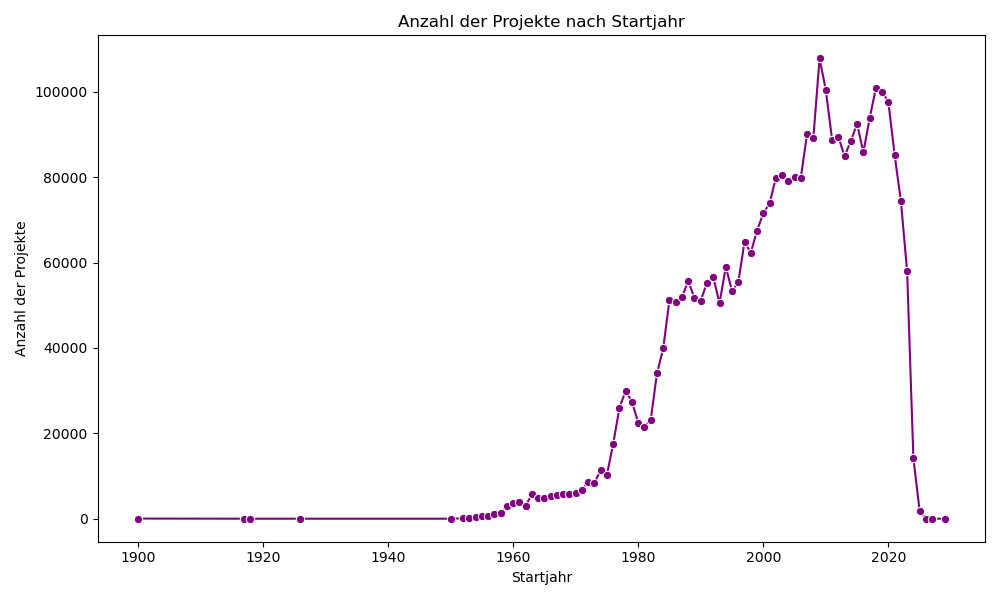
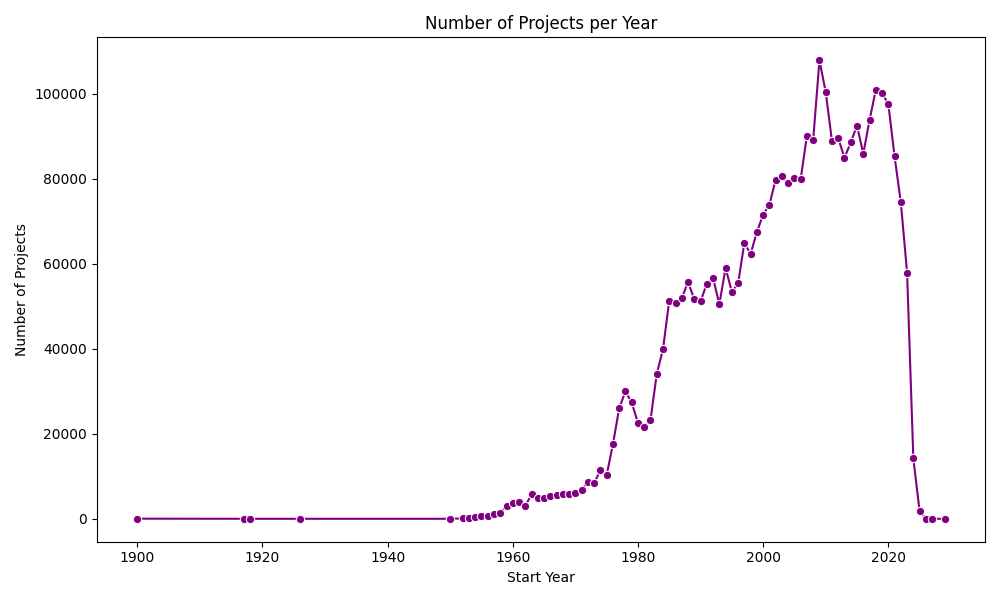
Add project dashboard and visualizations

diff --git a/src/dashboard.py b/src/dashboard.py
@@ -4,101 +4,158 @@ import seaborn as sns
 import matplotlib.pyplot as plt
 import os
 
-# Daten laden
+# === Load data ===
 projects = pd.read_csv('data/projects_data_csv/projects.csv')
 project_funders = pd.read_csv('data/projects_data_csv/project_funder_rel.csv')
 project_countries = pd.read_csv('data/projects_data_csv/project_country_rel.csv')
+project_publications = pd.read_csv('data/projects_data_csv/project_publications.csv')
+publication_project_rel = pd.read_csv('data/projects_data_csv/publication_project_rel.csv')
 
-# Vorbereitung
+# === Preprocessing ===
 projects['startDate'] = pd.to_datetime(projects['startDate'], errors='coerce')
 projects['endDate'] = pd.to_datetime(projects['endDate'], errors='coerce')
 projects['startYear'] = projects['startDate'].dt.year
 projects['project_duration_days'] = (projects['endDate'] - projects['startDate']).dt.days
+project_title_map = projects.set_index('id')['title'].to_dict()
+project_funding_map = projects.set_index('id')['fundedAmount'].to_dict()
+project_publications['citation_count'] = pd.to_numeric(project_publications['citation_count'], errors='coerce').fillna(0)
 
-# Dashboard 
+# === Streamlit Layout ===
 st.set_page_config(page_title="OpenAIRE Dashboard", layout="wide")
-st.title("OpenAIRE Forschungsprojekt-Dashboard")
+st.title("OpenAIRE Research Project Dashboard")
 
-# KPIs
+# === KPIs ===
 col1, col2, col3 = st.columns(3)
-col1.metric("Projekte insgesamt", f"{len(projects):,}")
-col2.metric("Frühestes Jahr", int(projects['startYear'].min()) if not projects.empty else "-")
-col3.metric("Letztes Jahr", int(projects['startYear'].max()) if not projects.empty else "-")
+col1.metric("Total Projects", f"{len(projects):,}")
+col2.metric("Earliest Year", int(projects['startYear'].min()) if not projects.empty else "-")
+col3.metric("Latest Year", int(projects['startYear'].max()) if not projects.empty else "-")
 
 st.markdown("---")
 
-# 1. Anzahl Projekte pro Jahr
-st.subheader("Anzahl der Projekte nach Startjahr")
+# === 1. Projects per Year ===
+st.subheader("Number of Projects per Start Year")
 projects_by_year = projects['startYear'].value_counts().sort_index()
 fig1, ax1 = plt.subplots(figsize=(10, 4))
 sns.lineplot(x=projects_by_year.index, y=projects_by_year.values, marker='o', ax=ax1)
-ax1.set_title('Projekte pro Jahr')
-ax1.set_xlabel('Jahr')
-ax1.set_ylabel('Anzahl')
+ax1.set_title('Projects per Year')
+ax1.set_xlabel('Year')
+ax1.set_ylabel('Number of Projects')
 st.pyplot(fig1)
 
-# 2. Durchschnittlicher Förderbetrag pro Jahr
-st.subheader("Durchschnittlicher Förderbetrag pro Jahr")
+# === 2. Average Funding per Year ===
+st.subheader("Average Funding Amount per Year")
 avg_funding_by_year = projects.groupby('startYear')['fundedAmount'].mean()
 fig2, ax2 = plt.subplots(figsize=(10, 4))
 sns.lineplot(x=avg_funding_by_year.index, y=avg_funding_by_year.values, marker='o', color='red', ax=ax2)
-ax2.set_title('Durchschnittlicher Förderbetrag pro Jahr')
-ax2.set_xlabel('Jahr')
+ax2.set_title('Average Funding Amount per Year')
+ax2.set_xlabel('Year')
 ax2.set_ylabel('€')
 st.pyplot(fig2)
 
-# 3. Projekte nach Land
-st.subheader("Projekte nach Land")
+# === 3. Projects by Country ===
+st.subheader("Projects by Country")
 country_counts = project_countries['country'].value_counts().head(15)
 fig3, ax3 = plt.subplots(figsize=(8, 5))
 sns.barplot(x=country_counts.values, y=country_counts.index, color='skyblue', ax=ax3)
-ax3.set_title('Projekte pro Land (Top 15)')
-ax3.set_xlabel('Anzahl')
-ax3.set_ylabel('Land')
+ax3.set_title('Top 15 Countries by Number of Projects')
+ax3.set_xlabel('Projects')
+ax3.set_ylabel('Country')
 st.pyplot(fig3)
 
-# 4. Top 10 Förderer nach Anzahl Projekte
-st.subheader("Top 10 Förderer nach Anzahl Projekte")
+# === 4. Top 10 Funders by Number of Projects ===
+st.subheader("Top 10 Funders by Project Count")
 funder_counts = project_funders['funder_name'].value_counts().head(10)
 fig4, ax4 = plt.subplots(figsize=(8, 5))
 sns.barplot(x=funder_counts.values, y=funder_counts.index, color='lightgreen', ax=ax4)
-ax4.set_title('Top Förderer nach Anzahl Projekte')
-ax4.set_xlabel('Anzahl')
-ax4.set_ylabel('Förderer')
+ax4.set_title('Top Funders by Project Count')
+ax4.set_xlabel('Projects')
+ax4.set_ylabel('Funder')
 st.pyplot(fig4)
 
-# 5. Top 10 Förderer nach Fördersumme
-st.subheader("Top 10 Förderer nach Fördersumme")
+# === 5. Top 10 Funders by Total Funding ===
+st.subheader("Top 10 Funders by Total Funding Amount")
 merged = pd.merge(project_funders, projects[['id', 'fundedAmount']], left_on='project_id', right_on='id', how='left')
 sum_by_funder = merged.groupby('funder_name')['fundedAmount'].sum().sort_values(ascending=False).head(10)
 fig5, ax5 = plt.subplots(figsize=(8, 5))
 sns.barplot(x=sum_by_funder.values, y=sum_by_funder.index, color='teal', ax=ax5)
-ax5.set_title('Förderer nach Fördersumme (Top 10)')
-ax5.set_xlabel('Fördersumme (€)')
-ax5.set_ylabel('Förderer')
+ax5.set_title('Top Funders by Total Funding (€)')
+ax5.set_xlabel('Total (€)')
+ax5.set_ylabel('Funder')
 st.pyplot(fig5)
 
-# 6. Durchschnittlicher Förderbetrag pro Förderer
-st.subheader("Durchschnittlicher Förderbetrag pro Förderer")
+# === 6. Average Funding per Funder ===
+st.subheader("Average Funding Amount per Funder")
 avg_by_funder = merged.groupby('funder_name')['fundedAmount'].mean().sort_values(ascending=False).head(10)
 fig6, ax6 = plt.subplots(figsize=(8, 5))
 sns.barplot(x=avg_by_funder.values, y=avg_by_funder.index, color='steelblue', ax=ax6)
-ax6.set_title('Ø Förderbetrag pro Förderer (Top 10)')
-ax6.set_xlabel('Durchschnitt (€)')
-ax6.set_ylabel('Förderer')
+ax6.set_title('Top Funders by Average Funding (€)')
+ax6.set_xlabel('Average (€)')
+ax6.set_ylabel('Funder')
 st.pyplot(fig6)
 
-# 7. Projektdauer vs. Förderbetrag 
-st.subheader("Projektdauer vs. Förderbetrag")
+# === 7. Project Duration vs. Funding ===
+st.subheader("Project Duration vs. Funding Amount")
 valid_projects = projects[(projects['project_duration_days'] > 0) & (projects['fundedAmount'] > 0)]
 fig7, ax7 = plt.subplots(figsize=(8, 5))
 sns.scatterplot(data=valid_projects, x='project_duration_days', y='fundedAmount', alpha=0.5, ax=ax7)
-ax7.set_title('Zusammenhang Projektdauer und Förderbetrag')
-ax7.set_xlabel('Dauer (Tage)')
-ax7.set_ylabel('Förderbetrag (€)')
+ax7.set_title('Project Duration vs. Funding Amount')
+ax7.set_xlabel('Duration (days)')
+ax7.set_ylabel('Funding (€)')
 st.pyplot(fig7)
 
-st.markdown("---")
-st.caption("Datenquelle: OpenAIRE. Erstellt in Python und Streamlit.")
+# === 8. Top Projects by Number of Publications ===
+st.subheader("Top Projects by Number of Publications")
+pub_counts = publication_project_rel['project_id'].value_counts().head(10)
+top_pub_projects = pub_counts.reset_index()
+top_pub_projects.columns = ['project_id', 'pub_count']
+top_pub_projects['title'] = top_pub_projects['project_id'].map(project_title_map).fillna(top_pub_projects['project_id'])
+fig8, ax8 = plt.subplots(figsize=(10, 6))
+sns.barplot(x='pub_count', y='title', data=top_pub_projects, color='seagreen', ax=ax8)
+ax8.set_title('Top Projects by Number of Publications')
+ax8.set_xlabel('Publications')
+ax8.set_ylabel('Project Title')
+st.pyplot(fig8)
 
-# # Starte das Dashboard mit Streamlit: streamlit run src/dashboard.py  
+# === 9. Top Publications by Citation Count ===
+st.subheader("Top Publications by Citation Count")
+top_cited_pubs = project_publications.sort_values(by='citation_count', ascending=False).head(10)
+fig9, ax9 = plt.subplots(figsize=(10, 6))
+sns.barplot(x='citation_count', y='title', data=top_cited_pubs, color='darkred', ax=ax9)
+ax9.set_title('Most Cited Publications')
+ax9.set_xlabel('Citations')
+ax9.set_ylabel('Publication Title')
+st.pyplot(fig9)
+
+# === 10. Top Journals by Number of Publications ===
+st.subheader("Top Journals by Number of Publications")
+journal_counts = project_publications['journal'].value_counts().dropna().head(10)
+fig10, ax10 = plt.subplots(figsize=(10, 6))
+sns.barplot(x=journal_counts.values, y=journal_counts.index, color='orchid', ax=ax10)
+ax10.set_title('Top Journals by Publication Count')
+ax10.set_xlabel('Publications')
+ax10.set_ylabel('Journal')
+st.pyplot(fig10)
+
+# === 11. Distribution of Citation Counts ===
+st.subheader("Distribution of Citation Counts")
+fig11, ax11 = plt.subplots(figsize=(10, 6))
+sns.histplot(project_publications['citation_count'], bins=30, kde=True, color='brown', ax=ax11)
+ax11.set_title('Distribution of Citation Counts')
+ax11.set_xlabel('Citations')
+ax11.set_ylabel('Frequency')
+st.pyplot(fig11)
+
+# === 12. Average Citation per Project ===
+st.subheader("Top Projects by Average Citation Count")
+merged_cit = pd.merge(publication_project_rel, project_publications, on='doi', how='left')
+citation_avg = merged_cit.groupby('project_id')['citation_count'].mean().sort_values(ascending=False).head(10).reset_index()
+citation_avg['title'] = citation_avg['project_id'].map(project_title_map).fillna(citation_avg['project_id'])
+fig12, ax12 = plt.subplots(figsize=(10, 6))
+sns.barplot(x='citation_count', y='title', data=citation_avg, color='darkgreen', ax=ax12)
+ax12.set_title('Top Projects by Average Citation Count')
+ax12.set_xlabel('Average Citations')
+ax12.set_ylabel('Project Title')
+st.pyplot(fig12)
+
+st.markdown("---")
+st.caption("Source: OpenAIRE. Built with Python and Streamlit.")
